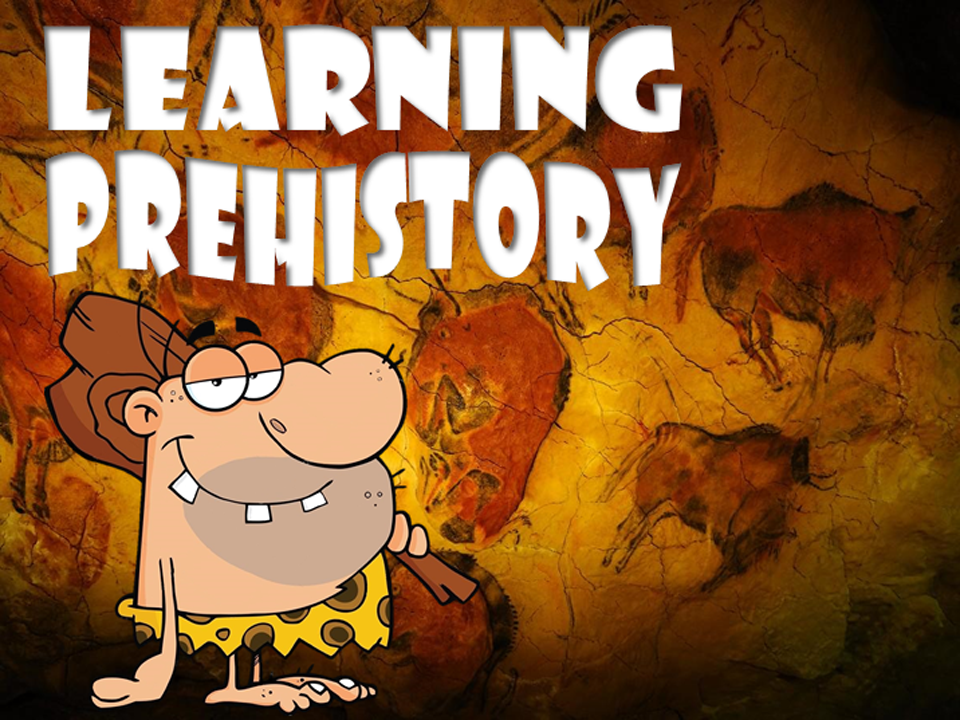
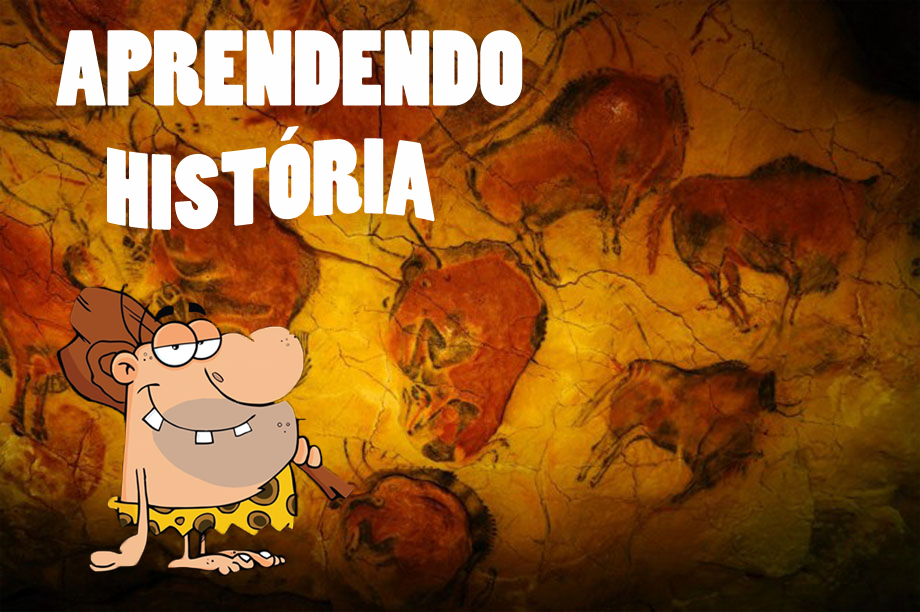
alteração da imagem de fundo

Changed region(s): [[0.0304, 0.031, 0.7304, 0.9935]]

diff --git a/jogo.c b/jogo.c
@@ -2,8 +2,8 @@
 #include <allegro5/allegro_image.h>
 #include <stdio.h>
 
-const int LARGURA_TELA = 960;
-const int ALTURA_TELA = 720;
+const int LARGURA_TELA = 920;
+const int ALTURA_TELA = 612;
 
 struct botao{
     ALLEGRO_BITMAP *ativado;
